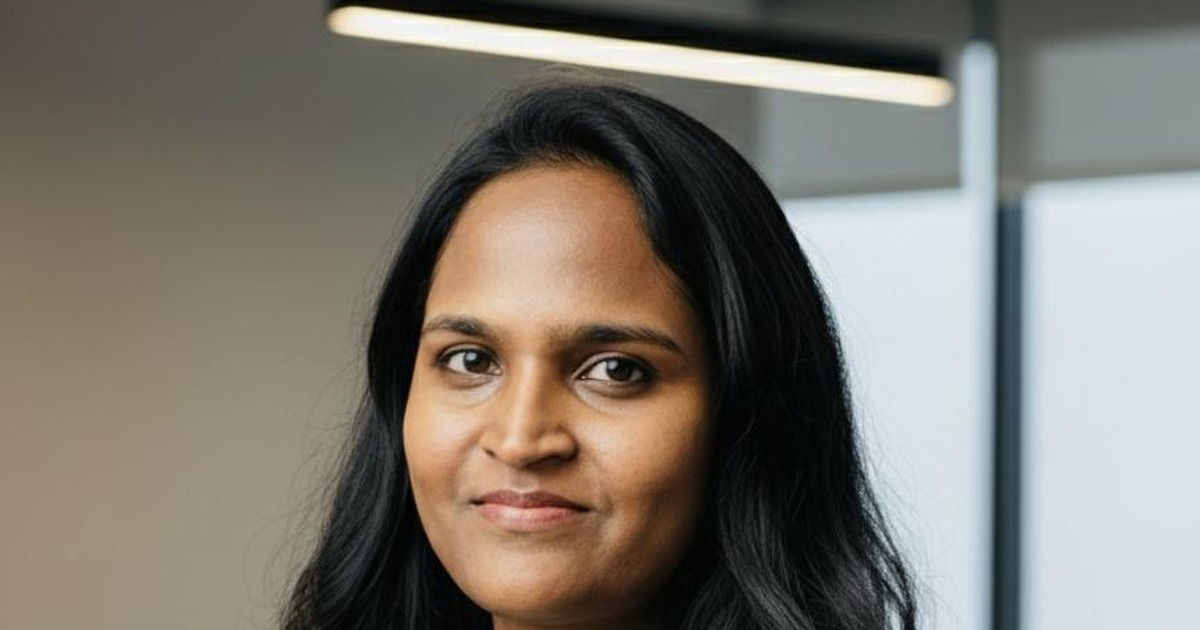
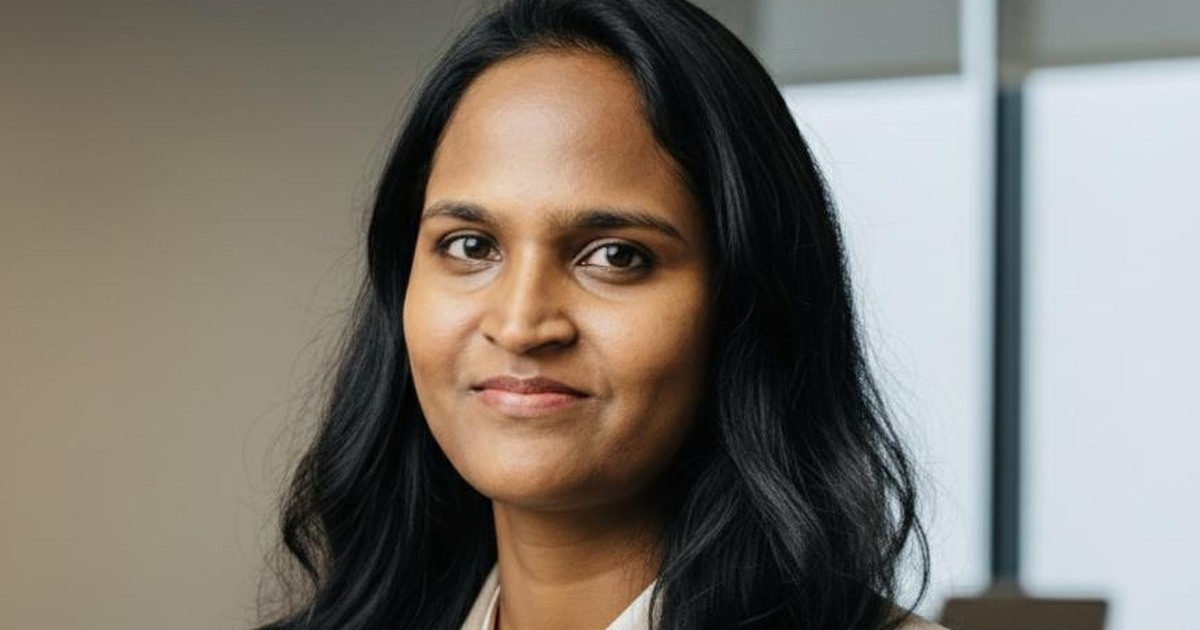
Fix LinkedIn featured preview image face alignment.
Recenter the OG preview crop so LinkedIn thumbnails show the face instead of the neck, and point social meta tags at the Vercel deployment.

diff --git a/index.html b/index.html
@@ -10,14 +10,14 @@
   <meta property="og:title" content="Priyanka Banda — GenAI Architect" />
   <meta property="og:description" content="GenAI Architect with 9+ years building enterprise-grade AI systems: multi-agent pipelines, RAG architectures, and autonomous reasoning engines." />
   <meta property="og:type" content="website" />
-  <meta property="og:url" content="https://priyankabanda2202.github.io" />
-  <meta property="og:image" content="https://raw.githubusercontent.com/priyankabanda2202/portfolio/main/preview.jpeg" />
+  <meta property="og:url" content="https://portfolio-three-ruddy-97.vercel.app" />
+  <meta property="og:image" content="https://portfolio-three-ruddy-97.vercel.app/preview.jpeg" />
   <meta property="og:image:width" content="1200" />
   <meta property="og:image:height" content="630" />
   <meta name="twitter:card" content="summary_large_image" />
   <meta name="twitter:title" content="Priyanka Banda — GenAI Architect" />
   <meta name="twitter:description" content="GenAI Architect | Multi-Agent AI | LangGraph | RAG | OpenShift" />
-  <meta name="twitter:image" content="https://raw.githubusercontent.com/priyankabanda2202/portfolio/main/preview.jpeg" />
+  <meta name="twitter:image" content="https://portfolio-three-ruddy-97.vercel.app/preview.jpeg" />
   <meta name="description" content="Priyanka Banda — GenAI Architect with 9+ years building production-grade AI systems." />
   <style>
     *, *::before, *::after { box-sizing: border-box; margin: 0; padding: 0; }
@@ -559,6 +559,14 @@
       overflow: hidden;
       border: 1px solid var(--border);
       box-shadow: 0 20px 60px rgba(0,0,0,0.1);
+    }
+
+    .hero-photo-wrap img {
+      width: 100%;
+      height: 100%;
+      object-fit: cover;
+      object-position: center 22%;
+      display: block;
     }
 
     .hero-stats-row {